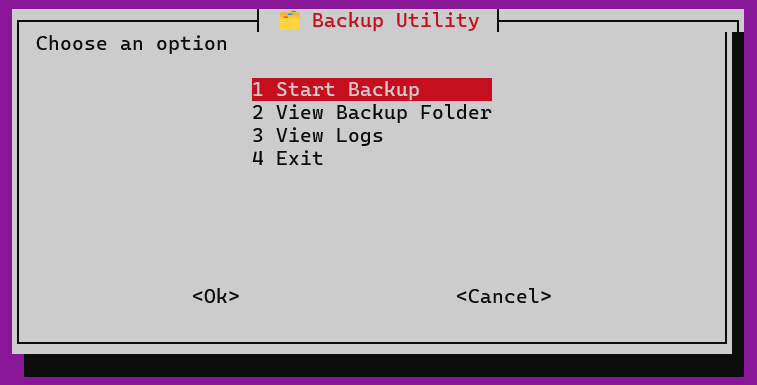
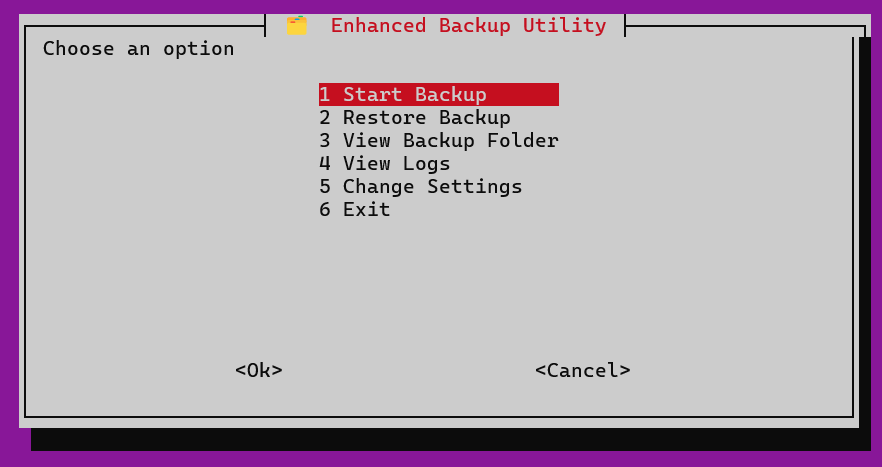
Update README.md and backup_utility.sh to reflect enhanced features and improved functionality

diff --git a/README.md b/README.md
@@ -1,77 +1,115 @@
+Perfect 👍 — since we upgraded your backup utility script with features like compression, restore, settings, and notifications,
+your **README** should also reflect those enhancements.
 
-
-
-# Backup Utility with Terminal UI
-
-A simple terminal-based **backup tool** for Linux/WSL/Git Bash.  
-It allows you to **back up directories**, **view backups**, and **check logs** easily.
+Here’s a **modern, updated README.md** for your new version — written cleanly with good formatting and visuals 👇
 
 ---
 
-## Features
-- Backup any folder with automatic timestamped naming.  
-- View your backup folder from the menu.  
-- View logs of all backups.  
-- Uses `rsync` for reliable copying.  
-- Terminal menu interface using `whiptail`.  
+````markdown
+# 🗂 Enhanced Backup Utility (TUI)
+
+A simple yet powerful **terminal-based backup tool** for Linux, WSL, and Git Bash.  
+Built with `whiptail` for a friendly text-based UI — ideal for quick, reliable backups from your terminal.
 
 ---
 
-## Installation
-1. Go to the project folder where the script is saved.  
-2. Make the script executable:  
-```bash
-chmod +x backup_utility.sh
+## 🚀 Features
+
+✅ **Backup any directory** with automatic timestamp naming  
+✅ **Optional compression** (`.tar.gz`) for space-saving backups  
+✅ **Restore backups** easily to any folder  
+✅ **Persistent settings** saved in `~/.backup_config`  
+✅ **View backup logs** in an interactive terminal viewer  
+✅ **Desktop notifications** (if `notify-send` is available)  
+✅ **Clean TUI menu** using `whiptail`  
+
+---
+
+## 📦 Installation
+
+1. Clone or copy the script to your local machine.  
+2. Make it executable:
+   ```bash
+   chmod +x backup_utility.sh
 ````
 
 3. Install dependencies (if missing):
 
-```bash
-sudo apt install whiptail rsync
-```
+   ```bash
+   sudo apt install whiptail rsync tar
+   ```
+
+   *(Optional)* For desktop notifications:
+
+   ```bash
+   sudo apt install libnotify-bin
+   ```
 
 ---
 
-## Usage
+## 🧰 Usage
 
-Run the script:
+Run the tool:
 
 ```bash
 ./backup_utility.sh
 ```
 
-**Menu options:**
+Then navigate using arrow keys and **Enter**:
 
-1. **Start Backup** – Enter the full path of the folder to back up.
-2. **View Backup Folder** – Open the backup directory.
-3. **View Logs** – See details of all backup operations.
-4. **Exit** – Close the utility.
-
----
-
-## Backup & Log Locations
-
-* **Backups:** `~/backup/`
-* **Logs:** `~/.backup_logs/`
+| Menu Option               | Description                                                 |
+| ------------------------- | ----------------------------------------------------------- |
+| 🧾 **Start Backup**       | Choose any folder to back up.                               |
+| 🔄 **Restore Backup**     | Restore from existing backups (folders or `.tar.gz` files). |
+| 📁 **View Backup Folder** | Open your `~/backup/` directory in the file explorer.       |
+| 🧩 **View Logs**          | Read logs of previous backup operations.                    |
+| ⚙ **Change Settings**    | Toggle compression and other preferences.                   |
+| ❌ **Exit**                | Close the utility.                                          |
 
 ---
 
-## Requirements
+## 📂 Default Locations
 
-* Linux / WSL / macOS
-* `bash`
-* `whiptail`
-* `rsync`
+| Type           | Path               |
+| -------------- | ------------------ |
+| 🔹 **Backups** | `~/backup/`        |
+| 🔹 **Logs**    | `~/.backup_logs/`  |
+| 🔹 **Config**  | `~/.backup_config` |
 
 ---
 
-## Screenshots 
+## ⚙ Configuration
 
-**Backup Menu**
+You can manually edit `~/.backup_config` to set preferences:
+
+```bash
+COMPRESS=yes   # or 'no'
+```
+
+---
+
+## 🖼 Screenshots
+
+**Main Menu**
 ![Backup Menu](assets/ss1.png)
 
-**Backup Process**
+**Backup Progress**
 ![Backup Process](assets/ss2.png)
+
 
 ---
 
+## 🧩 Tech Used
+
+* **Bash** — main scripting language
+* **Whiptail** — terminal UI dialogs
+* **Rsync** — reliable and fast file copy
+* **Tar** — compression support
+* **Libnotify** — optional notifications
+
+
+---
+
+## 📜 License
+
+This project is open-source and available under the **MIT License**.
